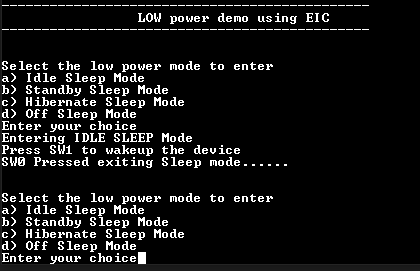
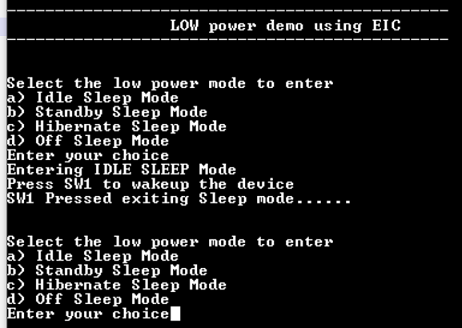
[APPS] Updated pm_wakeup_eic_pic32cx_sg41_cult demo
MH3-88860

Changed region(s): [[0.0, 0.0, 1.0, 1.0]]

diff --git a/apps/pm/pm_wakeup_eic/firmware/src/main.c b/apps/pm/pm_wakeup_eic/firmware/src/main.c
@@ -131,7 +131,7 @@ int main ( void )
                 SYSTICK_TimerStop();
                 LED_OFF();
                 PM_IdleModeEnter();
-                printf("\n\rSW0 Pressed exiting Sleep mode......");
+                printf("\n\rSW1 Pressed exiting Sleep mode......");
                 SYSTICK_TimerStart();
                 display_menu();
                 break;
@@ -146,7 +146,7 @@ int main ( void )
                 PM_StandbyModeEnter();
                 SYSTICK_TimerStart();
                 SYSTICK_DelayUs(1000);
-                printf("\n\rSW0 Pressed exiting Standby mode......");
+                printf("\n\rSW1 Pressed exiting Standby mode......");
                 display_menu();
                 break;
             }
